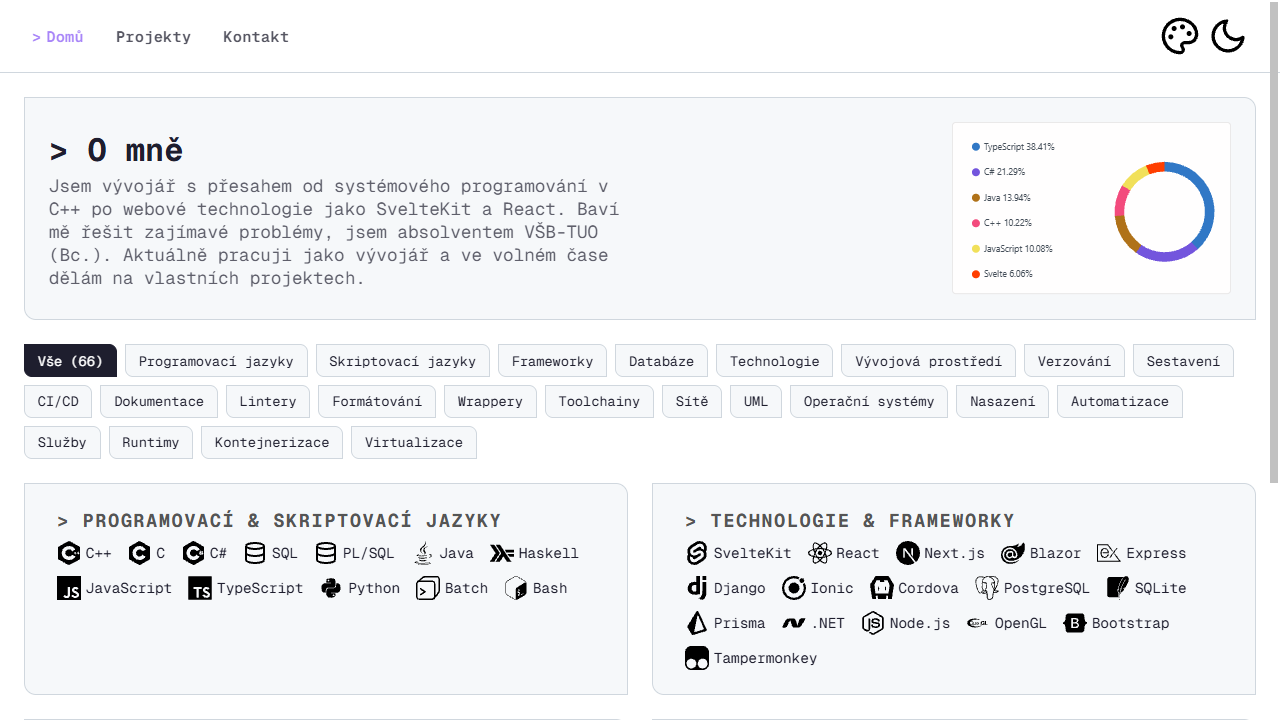
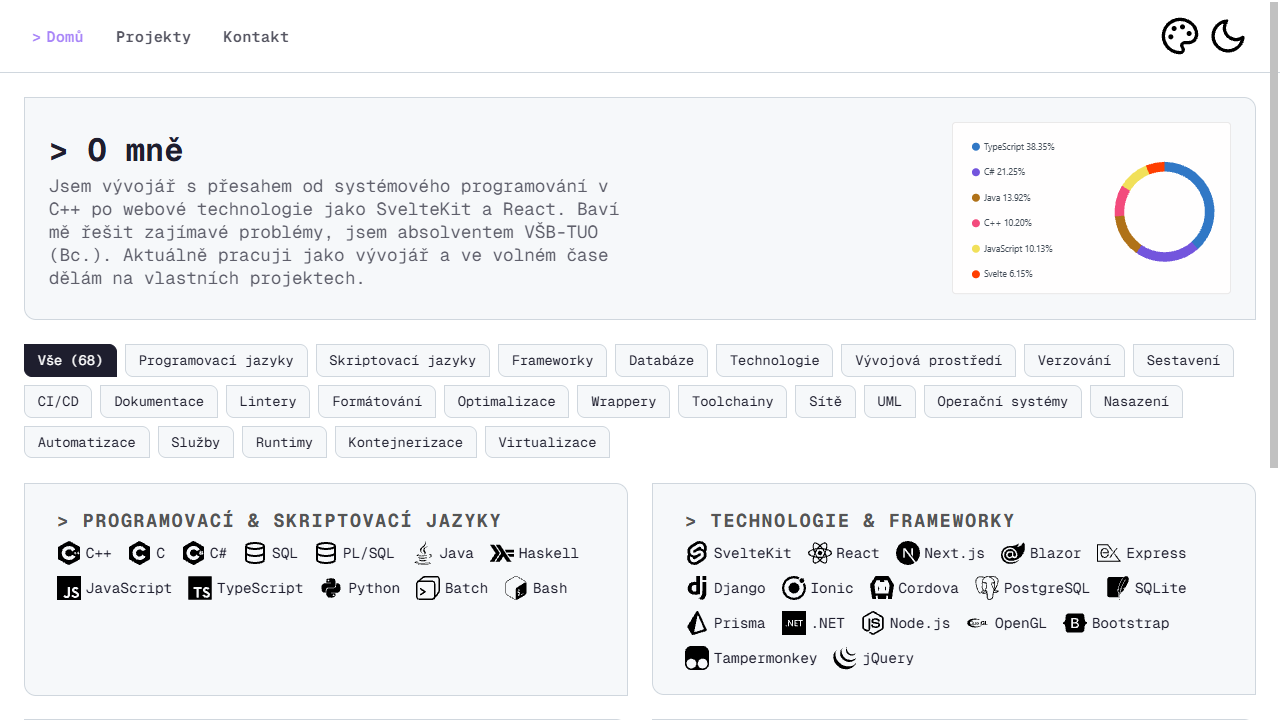
Add new skills and update skill categories

diff --git a/src/routes/+page.svelte b/src/routes/+page.svelte
@@ -3,7 +3,7 @@
 </svelte:head>
 
 <script lang="ts">
-  import { CLogo, CppLogo, CSharpLogo, GradleLogo, DoxygenLogo, PostmanLogo, BootstrapLogo, OpenGLLogo, PrismaLogo, SwigLogo, ExpressLogo, BlazorLogo, PostgreSQLLogo, SQLiteLogo, NextJSLogo, IntelliJIDEALogo, BashLogo, BatchLogo, JavaScriptLogo, TypeScriptLogo, NodeJSLogo, GNUMakeLogo, ViteLogo, DatabaseIcon, PythonLogo, CordovaLogo, IonicLogo, EmscriptenLogo, WiresharkLogo, PacketTracerLogo, VirtualBoxLogo, VmwareLogo, SvelteKitLogo, TampermonkeyLogo, FormspreeLogo, JavaLogo, HaskellLogo, ReactLogo, DotnetLogo, DjangoLogo, WebAssemblyLogo, VisualStudioLogo, VisualStudioCodeLogo, GitLogo, GitLabLogo, GitHubLogo, CloudflareWorkersLogo, NetlifyLogo, MavenLogo, SonarQubeLogo, ESLintLogo, PuttyLogo, WindowsLogo, AndroidLogo, LinuxLogo, RenderLogo, NeonLogo, DockerLogo, MakeLogo, NtfyLogo, NpmLogo, VisualParadigmLogo, GitHubActionsLogo, DependabotLogo, PrettierLogo, CLogoOriginal, CppLogoOriginal, CSharpLogoOriginal, GradleLogoOriginal, DoxygenLogoOriginal, PostmanLogoOriginal, BootstrapLogoOriginal, OpenGLLogoOriginal, PrismaLogoOriginal, BlazorLogoOriginal, PostgreSQLLogoOriginal, SQLiteLogoOriginal, NextJSLogoOriginal, IntelliJIDEALogoOriginal, BashLogoOriginal, BatchLogoOriginal, JavaScriptLogoOriginal, TypeScriptLogoOriginal, NodeJSLogoOriginal, PythonLogoOriginal, CordovaLogoOriginal, IonicLogoOriginal, WiresharkLogoOriginal, PacketTracerLogoOriginal, VirtualBoxLogoOriginal, VmwareLogoOriginal, SvelteKitLogoOriginal, TampermonkeyLogoOriginal, FormspreeLogoOriginal, JavaLogoOriginal, HaskellLogoOriginal, ReactLogoOriginal, DotnetLogoOriginal, DjangoLogoOriginal, WebAssemblyLogoOriginal, VisualStudioLogoOriginal, VisualStudioCodeLogoOriginal, GitLogoOriginal, GitLabLogoOriginal, GitHubLogoOriginal, CloudflareWorkersLogoOriginal, NetlifyLogoOriginal, MavenLogoOriginal, SonarQubeLogoOriginal, ESLintLogoOriginal, PuttyLogoOriginal, WindowsLogoOriginal, AndroidLogoOriginal, LinuxLogoOriginal, ViteLogoOriginal, DatabaseIconOriginal, EmscriptenLogoOriginal, NeonLogoOriginal, DockerLogoOriginal, MakeLogoOriginal, NtfyLogoOriginal, NpmLogoOriginal, VisualParadigmLogoOriginal, PrettierLogoOriginal, GitHubActionsLogoOriginal, DependabotLogoOriginal } from '$lib/assets/icons';
+  import { CLogo, CppLogo, CSharpLogo, GradleLogo, DoxygenLogo, PostmanLogo, BootstrapLogo, OpenGLLogo, PrismaLogo, SwigLogo, ExpressLogo, BlazorLogo, PostgreSQLLogo, SQLiteLogo, NextJSLogo, IntelliJIDEALogo, BashLogo, BatchLogo, JavaScriptLogo, TypeScriptLogo, NodeJSLogo, GNUMakeLogo, ViteLogo, DatabaseIcon, PythonLogo, CordovaLogo, IonicLogo, EmscriptenLogo, PacketTracerLogo, VirtualBoxLogo, VmwareLogo, SvelteKitLogo, TampermonkeyLogo, FormspreeLogo, JavaLogo, HaskellLogo, ReactLogo, DotnetLogo, DjangoLogo, WebAssemblyLogo, VisualStudioLogo, VisualStudioCodeLogo, GitLogo, GitLabLogo, GitHubLogo, CloudflareWorkersLogo, NetlifyLogo, MavenLogo, SonarQubeLogo, ESLintLogo, PuttyLogo, WindowsLogo, AndroidLogo, LinuxLogo, RenderLogo, NeonLogo, DockerLogo, MakeLogo, NtfyLogo, NpmLogo, VisualParadigmLogo, GitHubActionsLogo, DependabotLogo, PrettierLogo, JQueryLogo, SSMSLogo, SVGOLogo, CLogoOriginal, CppLogoOriginal, CSharpLogoOriginal, GradleLogoOriginal, DoxygenLogoOriginal, PostmanLogoOriginal, BootstrapLogoOriginal, OpenGLLogoOriginal, PrismaLogoOriginal, BlazorLogoOriginal, PostgreSQLLogoOriginal, SQLiteLogoOriginal, NextJSLogoOriginal, IntelliJIDEALogoOriginal, BashLogoOriginal, BatchLogoOriginal, JavaScriptLogoOriginal, TypeScriptLogoOriginal, NodeJSLogoOriginal, PythonLogoOriginal, CordovaLogoOriginal, IonicLogoOriginal, PacketTracerLogoOriginal, VirtualBoxLogoOriginal, VmwareLogoOriginal, SvelteKitLogoOriginal, TampermonkeyLogoOriginal, FormspreeLogoOriginal, JavaLogoOriginal, HaskellLogoOriginal, ReactLogoOriginal, DotnetLogoOriginal, DjangoLogoOriginal, WebAssemblyLogoOriginal, VisualStudioLogoOriginal, VisualStudioCodeLogoOriginal, GitLogoOriginal, GitLabLogoOriginal, GitHubLogoOriginal, CloudflareWorkersLogoOriginal, NetlifyLogoOriginal, MavenLogoOriginal, SonarQubeLogoOriginal, ESLintLogoOriginal, PuttyLogoOriginal, WindowsLogoOriginal, AndroidLogoOriginal, LinuxLogoOriginal, ViteLogoOriginal, DatabaseIconOriginal, EmscriptenLogoOriginal, NeonLogoOriginal, DockerLogoOriginal, MakeLogoOriginal, NtfyLogoOriginal, NpmLogoOriginal, VisualParadigmLogoOriginal, PrettierLogoOriginal, GitHubActionsLogoOriginal, DependabotLogoOriginal, JQueryLogoOriginal, SSMSLogoOriginal, SVGOLogoOriginal, } from '$lib/assets/icons';
   import { onMount } from 'svelte';
   import { skillCategories, uniqueSkills } from '$lib/data/skills';
   import '$lib/styles/home.css';
@@ -91,6 +91,7 @@
             <span class="skill-item" class:disabled={!isSkillActive('OpenGL')}><span class="logo-wrapper"><img src={OpenGLLogo} alt="OpenGL" class="custom-logo logo-default" loading="lazy" decoding="async"/><img src={OpenGLLogoOriginal} alt="OpenGL" class="custom-logo logo-hover"/></span> OpenGL</span>
             <span class="skill-item" class:disabled={!isSkillActive('Bootstrap')}><span class="logo-wrapper"><img src={BootstrapLogo} alt="Bootstrap" class="custom-logo logo-default" loading="lazy" decoding="async"/><img src={BootstrapLogoOriginal} alt="Bootstrap" class="custom-logo logo-hover"/></span> Bootstrap</span>
             <span class="skill-item" class:disabled={!isSkillActive('Tampermonkey')}><span class="logo-wrapper"><img src={TampermonkeyLogo} alt="Tampermonkey" class="custom-logo logo-default" loading="lazy" decoding="async"/><img src={TampermonkeyLogoOriginal} alt="Tampermonkey" class="custom-logo logo-hover"/></span> Tampermonkey</span>
+            <span class="skill-item" class:disabled={!isSkillActive('jQuery')}><span class="logo-wrapper"><img src={JQueryLogo} alt="jQuery" class="custom-logo logo-default" loading="lazy" decoding="async"/><img src={JQueryLogoOriginal} alt="jQuery" class="custom-logo logo-hover"/></span> jQuery</span>
           </div>
         </div>
       </div>
@@ -102,6 +103,7 @@
             <span class="skill-item" class:disabled={!isSkillActive('Visual Studio')}><span class="logo-wrapper"><img src={VisualStudioLogo} alt="Visual Studio" class="custom-logo logo-default" loading="lazy" decoding="async"/><img src={VisualStudioLogoOriginal} alt="Visual Studio" class="custom-logo logo-hover"/></span> Visual Studio</span>
             <span class="skill-item" class:disabled={!isSkillActive('Visual Studio Code')}><span class="logo-wrapper"><img src={VisualStudioCodeLogo} alt="Visual Studio Code" class="custom-logo logo-default" loading="lazy" decoding="async"/><img src={VisualStudioCodeLogoOriginal} alt="Visual Studio Code" class="custom-logo logo-hover"/></span> Visual Studio Code</span>
             <span class="skill-item" class:disabled={!isSkillActive('IntelliJ IDEA')}><span class="logo-wrapper"><img src={IntelliJIDEALogo} alt="IntelliJ IDEA" class="custom-logo logo-default" loading="lazy" decoding="async"/><img src={IntelliJIDEALogoOriginal} alt="IntelliJ IDEA" class="custom-logo logo-hover"/></span> IntelliJ IDEA</span>
+            <span class="skill-item" class:disabled={!isSkillActive('SSMS')}><span class="logo-wrapper"><img src={SSMSLogo} alt="SSMS" class="custom-logo logo-default" loading="lazy" decoding="async"/><img src={SSMSLogoOriginal} alt="SSMS" class="custom-logo logo-hover"/></span> SSMS</span>
             <span class="skill-item" class:disabled={!isSkillActive('Git')}><span class="logo-wrapper"><img src={GitLogo} alt="Git" class="custom-logo logo-default" loading="lazy" decoding="async"/><img src={GitLogoOriginal} alt="Git" class="custom-logo logo-hover"/></span> Git</span>
             <span class="skill-item" class:disabled={!isSkillActive('GNU Make')}><img src={GNUMakeLogo} alt="Make" class="custom-logo logo-default" loading="lazy" decoding="async"/> GNU Make</span>
             <span class="skill-item" class:disabled={!isSkillActive('Vite')}><span class="logo-wrapper"><img src={ViteLogo} alt="Vite" class="custom-logo logo-default" loading="lazy" decoding="async"/><img src={ViteLogoOriginal} alt="Vite" class="custom-logo logo-hover"/></span> Vite</span>
@@ -114,11 +116,11 @@
             <span class="skill-item" class:disabled={!isSkillActive('SonarQube')}><span class="logo-wrapper"><img src={SonarQubeLogo} alt="SonarQube" class="custom-logo logo-default" loading="lazy" decoding="async"/><img src={SonarQubeLogoOriginal} alt="SonarQube" class="custom-logo logo-hover"/></span> SonarQube</span>
             <span class="skill-item" class:disabled={!isSkillActive('ESLint')}><span class="logo-wrapper"><img src={ESLintLogo} alt="ESLint" class="custom-logo logo-default" loading="lazy" decoding="async"/><img src={ESLintLogoOriginal} alt="ESLint" class="custom-logo logo-hover"/></span> ESLint</span>
             <span class="skill-item" class:disabled={!isSkillActive('Prettier')}><span class="logo-wrapper"><img src={PrettierLogo} alt="Prettier" class="custom-logo logo-default" loading="lazy" decoding="async"/><img src={PrettierLogoOriginal} alt="Prettier" class="custom-logo logo-hover"/></span> Prettier</span>
+            <span class="skill-item" class:disabled={!isSkillActive('SVGO')}><span class="logo-wrapper"><img src={SVGOLogo} alt="SVGO" class="custom-logo logo-default" loading="lazy" decoding="async"/><img src={SVGOLogoOriginal} alt="SVGO" class="custom-logo logo-hover"/></span> SVGO</span>
             <span class="skill-item" class:disabled={!isSkillActive('SWIG')}><img src={SwigLogo} alt="SWIG" class="custom-logo logo-default" loading="lazy" decoding="async"/> SWIG</span>
             <span class="skill-item" class:disabled={!isSkillActive('Emscripten')}><span class="logo-wrapper"><img src={EmscriptenLogo} alt="Emscripten" class="custom-logo logo-default" loading="lazy" decoding="async"/><img src={EmscriptenLogoOriginal} alt="Emscripten" class="custom-logo logo-hover"/></span> Emscripten</span>
             <span class="skill-item" class:disabled={!isSkillActive('Postman')}><span class="logo-wrapper"><img src={PostmanLogo} alt="Postman" class="custom-logo logo-default" loading="lazy" decoding="async"/><img src={PostmanLogoOriginal} alt="Postman" class="custom-logo logo-hover"/></span> Postman</span>
             <span class="skill-item" class:disabled={!isSkillActive('PuTTY')}><span class="logo-wrapper"><img src={PuttyLogo} alt="PuTTY" class="custom-logo logo-default" loading="lazy" decoding="async"/><img src={PuttyLogoOriginal} alt="PuTTY" class="custom-logo logo-hover"/></span> PuTTY</span>
-            <span class="skill-item" class:disabled={!isSkillActive('Wireshark')}><span class="logo-wrapper"><img src={WiresharkLogo} alt="Wireshark" class="custom-logo logo-default" loading="lazy" decoding="async"/><img src={WiresharkLogoOriginal} alt="Wireshark" class="custom-logo logo-hover"/></span> Wireshark</span>
             <span class="skill-item" class:disabled={!isSkillActive('Packet Tracer')}><span class="logo-wrapper"><img src={PacketTracerLogo} alt="Packet Tracer" class="custom-logo logo-default" loading="lazy" decoding="async"/><img src={PacketTracerLogoOriginal} alt="Packet Tracer" class="custom-logo logo-hover"/></span> Packet Tracer</span>
             <span class="skill-item" class:disabled={!isSkillActive('Visual Paradigm')}><span class="logo-wrapper"><img src={VisualParadigmLogo} alt="Visual Paradigm" class="custom-logo logo-default" loading="lazy" decoding="async"/><img src={VisualParadigmLogoOriginal} alt="Visual Paradigm" class="custom-logo logo-hover"/></span> Visual Paradigm</span>
           </div>

diff --git a/src/lib/data/skills.ts b/src/lib/data/skills.ts
@@ -3,17 +3,18 @@ export const skillCategories: Record<string, string[]> = {
   'Skriptovací jazyky': ['JavaScript', 'TypeScript', 'Python', 'Batch', 'Bash'],
   'Frameworky': ['SvelteKit', 'React', 'Next.js', 'Blazor', 'Express', 'Django', 'Ionic', 'Cordova'],
   'Databáze': ['PostgreSQL', 'SQLite', 'Prisma', 'Neon'],
-  'Technologie': ['.NET', 'Node.js', 'OpenGL', 'Bootstrap', 'Tampermonkey'],
-  'Vývojová prostředí': ['Visual Studio', 'Visual Studio Code', 'IntelliJ IDEA'],
+  'Technologie': ['.NET', 'Node.js', 'OpenGL', 'Bootstrap', 'Tampermonkey', 'jQuery'],
+  'Vývojová prostředí': ['Visual Studio', 'Visual Studio Code', 'IntelliJ IDEA', 'SSMS'],
   'Verzování': ['Git', 'GitHub', 'GitLab'],
   'Sestavení': ['GNU Make', 'Vite', 'npm', 'Maven', 'Gradle'],
   'CI/CD': ['GitHub Actions', 'Dependabot'],
   'Dokumentace': ['Doxygen'],
   'Lintery': ['SonarQube', 'ESLint'],
   'Formátování': ['Prettier'],
+  'Optimalizace': ['SVGO'],
   'Wrappery': ['SWIG'],
   'Toolchainy': ['Emscripten'],
-  'Sítě': ['Postman', 'PuTTY', 'Wireshark', 'Packet Tracer'],
+  'Sítě': ['Postman', 'PuTTY', 'Packet Tracer'],
   'UML': ['Visual Paradigm'],
   'Operační systémy': ['Windows', 'Linux', 'Android'],
   'Nasazení': ['Cloudflare Workers', 'Netlify', 'Render'],
